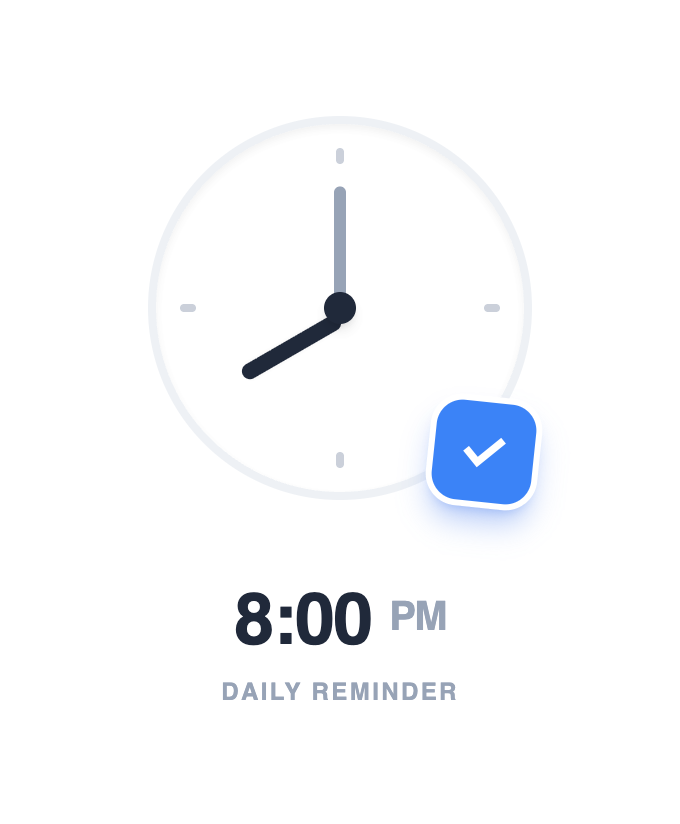
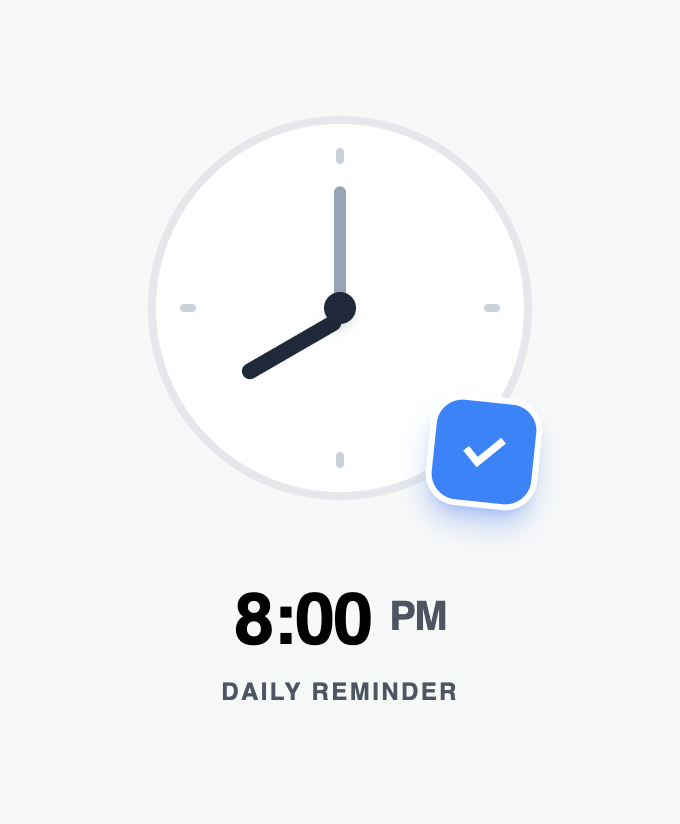
update

Changed region(s): [[0.3397, 0.6978, 0.6794, 0.7888], [0.3088, 0.8192, 0.6794, 0.8495]]

diff --git a/lib/screen/auth/view/login_view.dart b/lib/screen/auth/view/login_view.dart
@@ -6,6 +6,7 @@ import 'package:flutter/material.dart';
 import 'package:flutter_screenutil/flutter_screenutil.dart';
 import 'package:font_awesome_flutter/font_awesome_flutter.dart';
 import 'package:loading_animation_widget/loading_animation_widget.dart';
+import 'package:shared_preferences/shared_preferences.dart';
 import 'package:spend_flow/assets/l10n/app_localizations.dart';
 import 'package:spend_flow/config/app_colors.dart';
 import 'package:spend_flow/core/widgets/check_valid/check_valid_widget.dart';
@@ -14,6 +15,7 @@ import 'package:spend_flow/main.dart';
 import 'package:spend_flow/screen/auth/auth_viewmodel.dart';
 import 'package:spend_flow/screen/auth/view/forgot_password_view.dart';
 import 'package:spend_flow/screen/auth/view/register_view.dart';
+import 'package:spend_flow/screen/wallet/wallet_view.dart';
 
 class LoginPage extends StatefulWidget {
   final bool fromCreateWallet;
@@ -147,7 +149,6 @@ class _LoginPageState extends State<LoginPage> {
   Future<void> _handleSocialLogin(
     Future<UserCredential?> Function() method,
     BuildContext context,
-
   ) async {
     final l10n = AppLocalizations.of(context)!;
     try {
@@ -159,6 +160,14 @@ class _LoginPageState extends State<LoginPage> {
         _navigateToHome();
       }
     } catch (e) {
+      final errorString = e.toString().toLowerCase();
+      final bool isUserCanceled =
+          errorString.contains('canceled') ||
+          errorString.contains('user-cancelled');
+
+      if (isUserCanceled) {
+        return;
+      }
       if (context.mounted) {
         CheckValidWidget.showIncompleteDetailsSheet(
           context: context,
@@ -170,7 +179,20 @@ class _LoginPageState extends State<LoginPage> {
     }
   }
 
-  void _navigateToHome() {
+  void _navigateToHome() async {
+    final prefs = await SharedPreferences.getInstance();
+    final bool createFirstWallet =
+        prefs.getBool('create_first_wallet') ?? false;
+    if (!createFirstWallet) {
+      if (mounted) {
+        Navigator.pushAndRemoveUntil(
+          context,
+          CupertinoPageRoute(builder: (context) => const WalletView(firstWallet: true)),
+          (route) => false,
+        );
+      }
+      return;
+    }
     if (mounted) {
       Navigator.pushAndRemoveUntil(
         context,
@@ -346,7 +368,6 @@ class _LoginPageState extends State<LoginPage> {
                           ),
                         ),
                         SizedBox(height: 20.h),
-
                         _buildSocialButton(
                           context: context,
                           imageAsset: 'lib/assets/images/google.png',
@@ -356,19 +377,17 @@ class _LoginPageState extends State<LoginPage> {
                             context,
                           ),
                         ),
-
-                        SizedBox(height: 12.h),
-
-                        _buildSocialButton(
-                          context: context,
-                          icon: FontAwesomeIcons.apple,
-                          label: l10n.sign_in_with('Apple'),
-                          isApple: true,
-                          onTap: () => _handleSocialLogin(
-                            _viewModel.signInWithApple,
-                            context,
-                          ),
-                        ),
+                        // SizedBox(height: 12.h),
+                        // _buildSocialButton(
+                        //   context: context,
+                        //   icon: FontAwesomeIcons.apple,
+                        //   label: l10n.sign_in_with('Apple'),
+                        //   isApple: true,
+                        //   onTap: () => _handleSocialLogin(
+                        //     _viewModel.signInWithApple,
+                        //     context,
+                        //   ),
+                        // ),
                       ],
                     ),
                   ),

diff --git a/lib/screen/transaction/add_transaction/add_transaction_viewmodel.dart b/lib/screen/transaction/add_transaction/add_transaction_viewmodel.dart
@@ -23,6 +23,8 @@ class AddTransactionViewmodel extends ChangeNotifier {
   String? get selectedAddress => _selectedAddress;
   bool? get isLocationEnabled => _isLocationEnabled;
 
+  Future<void>? _locationTask;
+
   AddTransactionViewmodel() {
     _initialize();
   }
@@ -30,11 +32,39 @@ class AddTransactionViewmodel extends ChangeNotifier {
   Future<void> _initialize() async {
     await _loadCurrency();
     _isLocationEnabled = await _storageService.getLocationStatus();
-    if (_isLocationEnabled == null) {
-      await _locationService.requestPermission();
-    }
-    await getCurrentLocation();
+
+    await _safeLocationInitialization();
+
     notifyListeners();
+  }
+
+  Future<void> _safeLocationInitialization() async {
+    if (_locationTask != null) return _locationTask;
+
+    _locationTask = Future(() async {
+      try {
+        if (_isLocationEnabled == null) {
+          final permissionGranted = await _locationService.requestPermission();
+
+          _isLocationEnabled = permissionGranted;
+          await _storageService.saveLocationStatus(permissionGranted);
+
+          if (permissionGranted) {
+            await getCurrentLocation();
+          } else {
+            notifyListeners();
+          }
+        } else if (_isLocationEnabled == true) {
+          await getCurrentLocation();
+        }
+      } catch (e) {
+        debugPrint('Location Init Error: $e');
+      } finally {
+        _locationTask = null;
+      }
+    });
+    notifyListeners();
+    return _locationTask;
   }
 
   Future<void> _loadCurrency() async {
@@ -55,7 +85,7 @@ class AddTransactionViewmodel extends ChangeNotifier {
     CategoryModel? selectedCategory,
     DateTime? transactionDate,
     String note,
-    LocationModel? location,  
+    LocationModel? location,
   ) async {
     if (selectedCategory == null) return;
 

diff --git a/lib/screen/home/home_view.dart b/lib/screen/home/home_view.dart
@@ -10,7 +10,6 @@ import 'package:spend_flow/assets/l10n/app_localizations.dart';
 import 'package:spend_flow/core/services/ads_service.dart';
 import 'package:spend_flow/core/services/data_service/daily_limit_service.dart';
 import 'package:spend_flow/core/widgets/custom_option/custom_option_widget.dart';
-import 'package:spend_flow/screen/home/widgets/streak_card.dart';
 import 'package:spend_flow/screen/premium/premium_view.dart';
 import 'package:spend_flow/screen/scan_receipt/scran_receipt_view.dart';
 import 'package:spend_flow/screen/transaction/add_transaction/add_transaction_view.dart';
@@ -313,7 +312,7 @@ class _HomePageState extends State<HomePage> with WidgetsBindingObserver {
                                 ? 100.h
                                 : 70.h
                           : Platform.isIOS
-                          ? 140.h
+                          ? 150.h
                           : 125.h,
                       child: _buildFloatingButton(l10n),
                     ),

diff --git a/lib/screen/transaction/add_transaction/add_transaction_view.dart b/lib/screen/transaction/add_transaction/add_transaction_view.dart
@@ -377,20 +377,4 @@ class _AddTransactionPageState extends State<AddTransactionPage> {
       ),
     );
   }
-
-  Widget _buildSegmentItem(String text, bool isSelected) {
-    return Padding(
-      padding: EdgeInsets.symmetric(vertical: 12.h),
-      child: Text(
-        text,
-        style: CupertinoTheme.of(context).textTheme.textStyle.copyWith(
-          fontSize: 16.sp,
-          fontWeight: isSelected ? FontWeight.w600 : FontWeight.w500,
-          color: isSelected
-              ? CupertinoColors.white
-              : CupertinoTheme.of(context).textTheme.textStyle.color,
-        ),
-      ),
-    );
-  }
 }

diff --git a/lib/screen/budget/budget_view.dart b/lib/screen/budget/budget_view.dart
@@ -196,7 +196,7 @@ class _BudgetPageState extends State<BudgetPage>
                         bottom: _isPremium
                             ? 50.h
                             : Platform.isIOS
-                            ? 90.h
+                            ? 98.h
                             : 108.h,
                         child: CupertinoButton(
                           onPressed: _navigateToAddBudget,

diff --git a/lib/screen/wallet/wallet_view.dart b/lib/screen/wallet/wallet_view.dart
@@ -394,6 +394,8 @@ class _WalletViewState extends State<WalletView> {
                                   ],
                                 ),
                               ),
+                            ] else ...[
+                              SizedBox(height: 15.h),
                             ],
                           ],
                         ),

diff --git a/lib/core/navigation/root_check.dart b/lib/core/navigation/root_check.dart
@@ -22,7 +22,7 @@ class RootChecker extends StatelessWidget {
 
     final user = FirebaseAuth.instance.currentUser;
 
-    if (user != null && user.emailVerified) {
+    if (user != null) {
       return createFirstWallet
           ? const BottomNavbar()
           : const WalletView(firstWallet: true);
